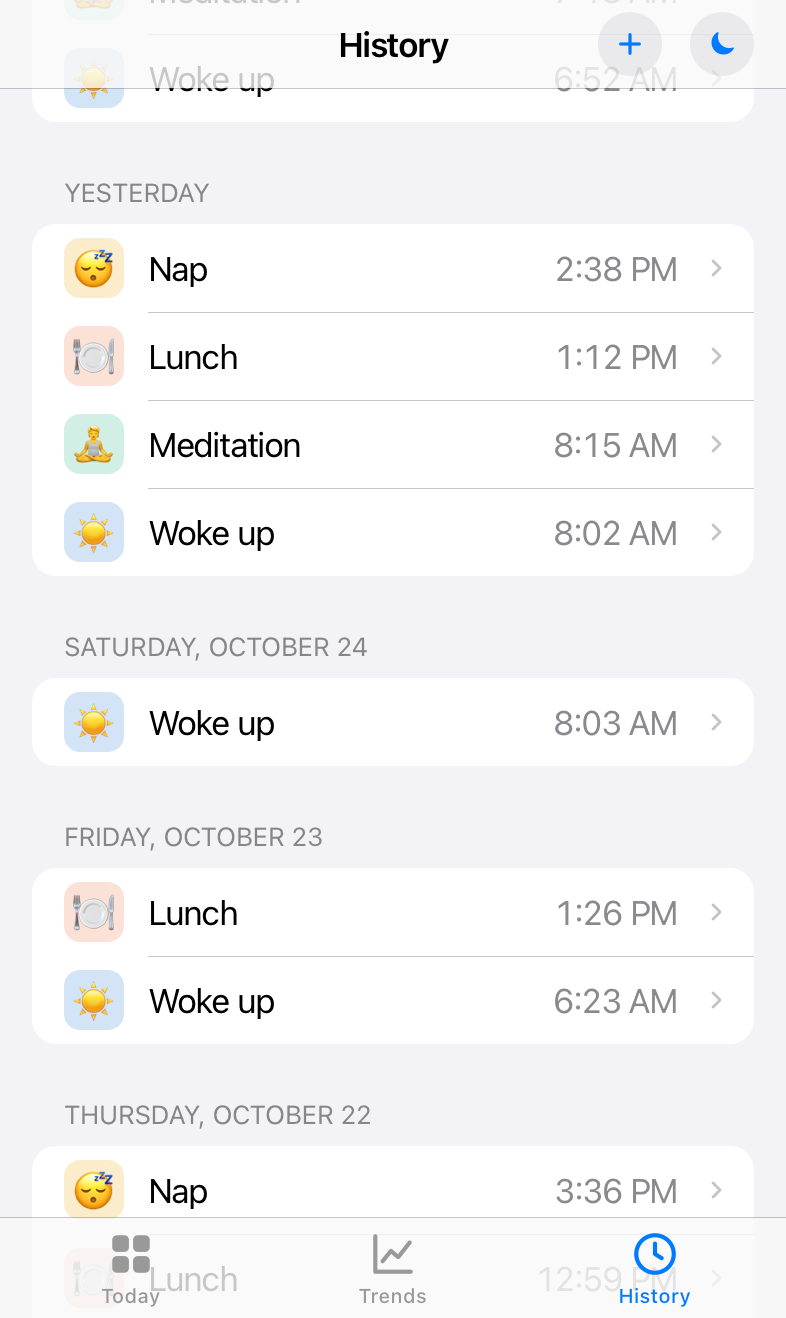
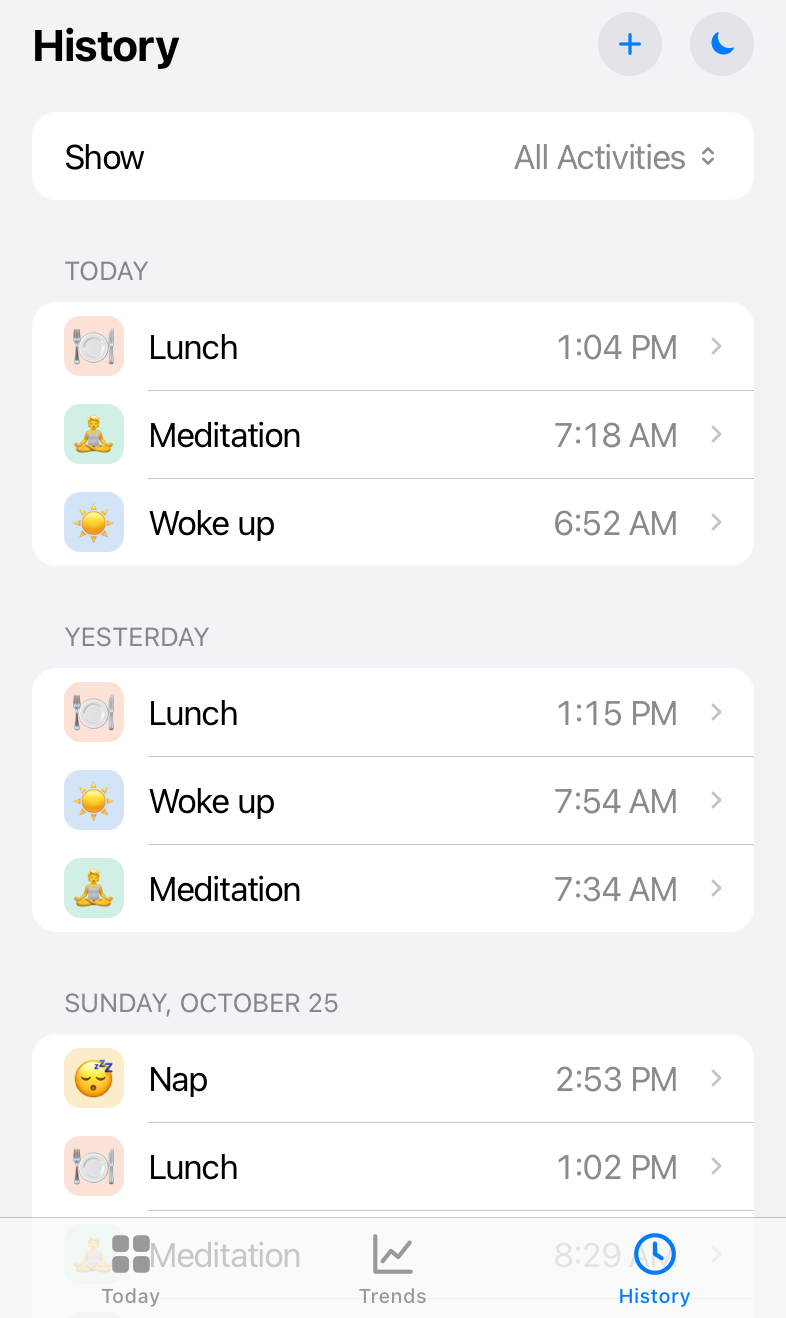
Update screenshots

diff --git a/README.md b/README.md
@@ -9,21 +9,24 @@ https://stampio.netlify.app
 <p align="center">
   <img src="docs/screenshots/today-light.png" width="200" alt="Today: one card per activity showing when it was last logged">
   <img src="docs/screenshots/logged-light.png" width="200" alt="Logging lunch: a banner confirms the time with an Undo button">
+  <img src="docs/screenshots/edit-light.png" width="200" alt="Edit mode: drag tiles to reorder, tap one to edit it">
+</p>
+<p align="center">
+  <img src="docs/screenshots/new-activity-light.png" width="200" alt="New Activity sheet with icon, name, color and emoji picker">
   <img src="docs/screenshots/trends-light.png" width="200" alt="Trends: one line per activity, time of day across the month">
   <img src="docs/screenshots/trends-list-light.png" width="200" alt="Trends activity list: toggle each line, with average and range">
 </p>
 <p align="center">
-  <img src="docs/screenshots/history-light.png" width="200" alt="History: every logged time grouped by day">
-  <img src="docs/screenshots/new-activity-light.png" width="200" alt="New Activity sheet with icon, name, color and emoji picker">
+  <img src="docs/screenshots/history-light.png" width="200" alt="History: every logged time grouped by day, filterable by activity">
   <img src="docs/screenshots/today-dark.png" width="200" alt="Today in dark appearance">
   <img src="docs/screenshots/trends-dark.png" width="200" alt="Trends in dark appearance">
 </p>
 
 ## Features
 
-- **Today**: one card per activity showing the last logged time. Tap a card to log now, with a haptic tap on iOS 18 and a banner you can **Undo**. **Edit** to rename, recolor or delete; **Add Activity** to create one.
-- **Trends**: one line per activity, with the day across and the time of day down. Switch between week, month, 3 months and all time. The list under the chart toggles each line and shows its average time and usual range.
-- **History**: every logged time grouped by day. Tap one to change or delete it, or **+** to add one you missed. **Export as CSV** / **Import from CSV** (import merges and skips duplicates — handy for backups).
+- **Today**: one card per activity showing the last logged time. Tap a card to log now, with a haptic tap on iOS 18 and a banner you can **Undo**. **Edit** to drag tiles into a new order, or tap one to rename, recolor or delete it; **Add Activity** to create one.
+- **Trends**: one line per activity, with the day across and the time of day down. Switch between week, month, 3 months and all time, and swipe (or use the arrows) to page back through earlier periods. The list under the chart toggles each line and shows its average time and usual range.
+- **History**: every logged time grouped by day, filterable by activity. Tap one to change or delete it, or **+** to add one you missed. **Export as CSV** / **Import from CSV** (import merges and skips duplicates — handy for backups). **Delete All Data** wipes activities and entries after a confirmation.
 - **Light and dark** appearance (light by default), using Apple's system colors.
 - Times follow the device's 12/24-hour setting.
 
